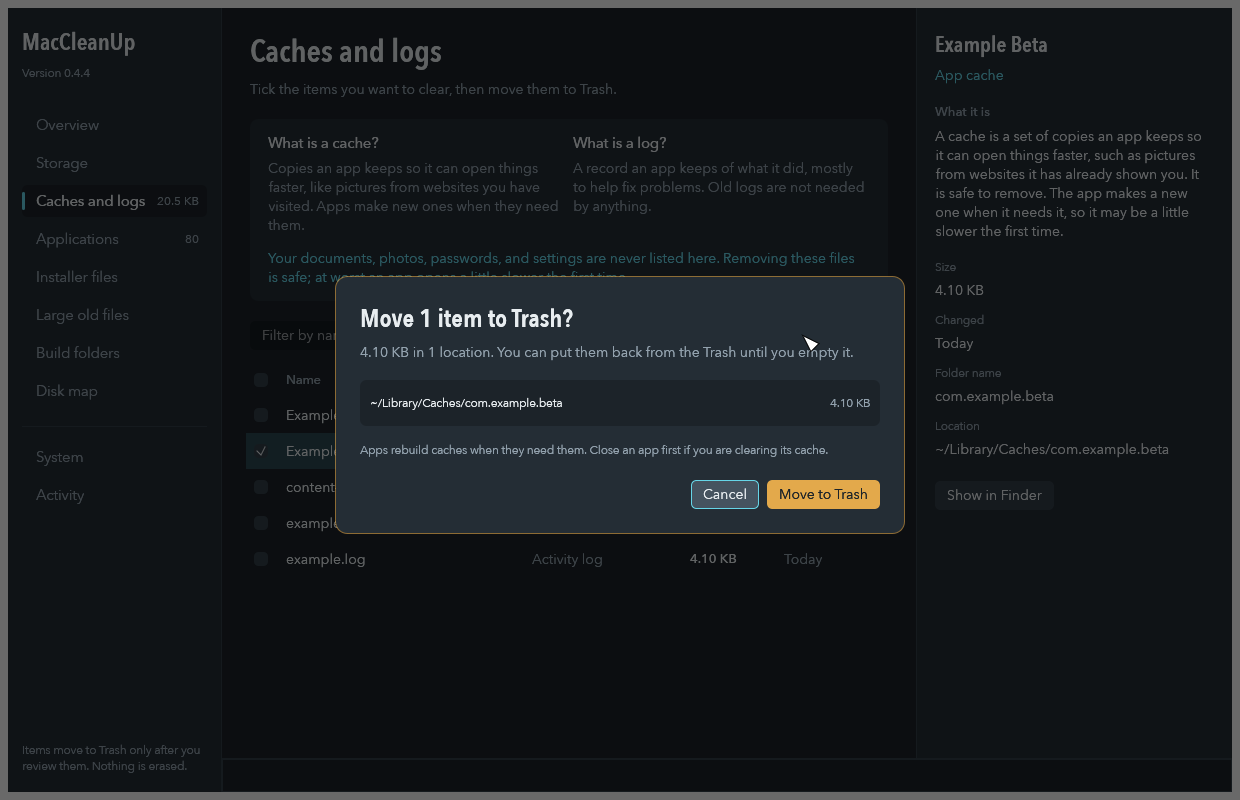
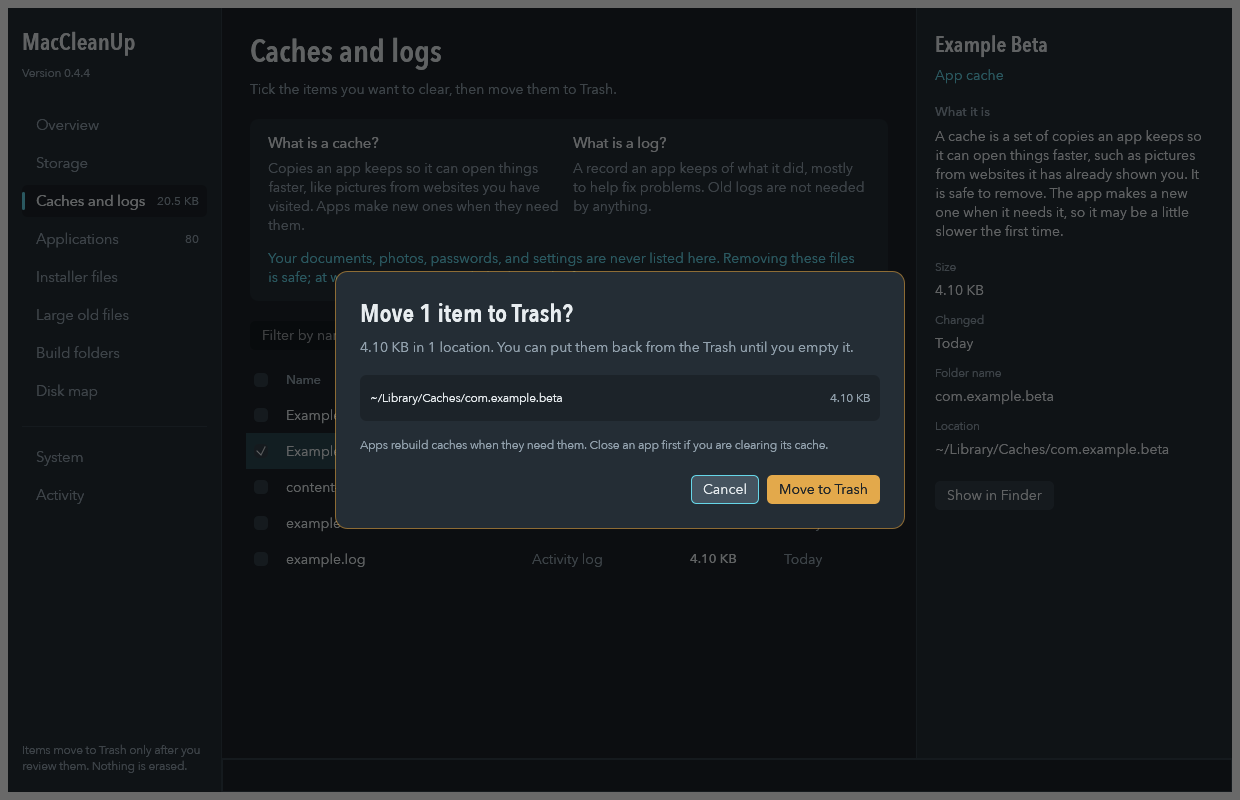
README: build prerequisites; screenshots without the test pointer

Changed region(s): [[0.2758, 0.375, 0.6742, 0.5625], [0.2758, 0.5938, 0.7355, 0.6875], [0.2758, 0.3125, 0.7355, 0.3438]]

diff --git a/src/gui/mod.rs b/src/gui/mod.rs
@@ -2360,6 +2360,9 @@ mod tests {
         let Some(folder) = std::env::var_os("MACCLEANUP_SHOTS") else {
             return;
         };
+        // Without this the last click leaves a pointer and a hover highlight.
+        harness.remove_cursor();
+        harness.run_steps(2);
         let image = harness.render().expect("render frame");
         image
             .save(PathBuf::from(folder).join(format!("{name}.png")))

diff --git a/README.md b/README.md
@@ -31,9 +31,11 @@
 
 ## Install
 
-MacCleanUp has no installer. Build it from source with Rust, then open `build/<version>/MacCleanUp.app`:
+MacCleanUp has no installer. Build it from source, then open `build/<version>/MacCleanUp.app`. The build needs Rust 1.85 or later (from [rustup](https://rustup.rs)), the Apple Silicon and Intel targets, and the Xcode Command Line Tools for `lipo` and `codesign`:
 
 ```sh
+xcode-select --install
+rustup target add aarch64-apple-darwin x86_64-apple-darwin
 git clone https://github.com/dominicferri/MacCleanUp.git
 cd MacCleanUp
 ./scripts/build-app.sh
